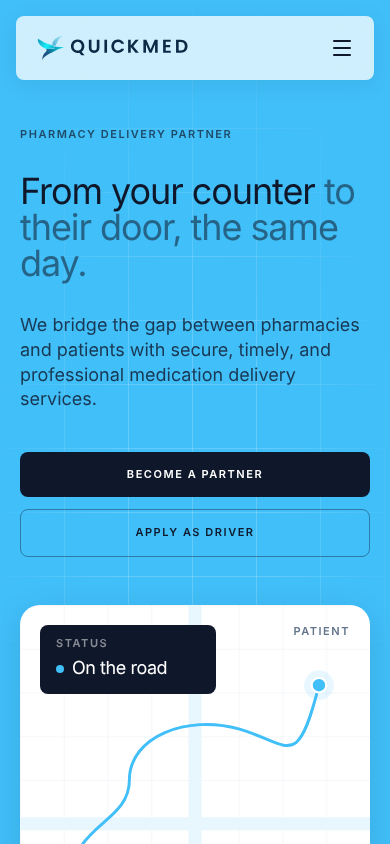
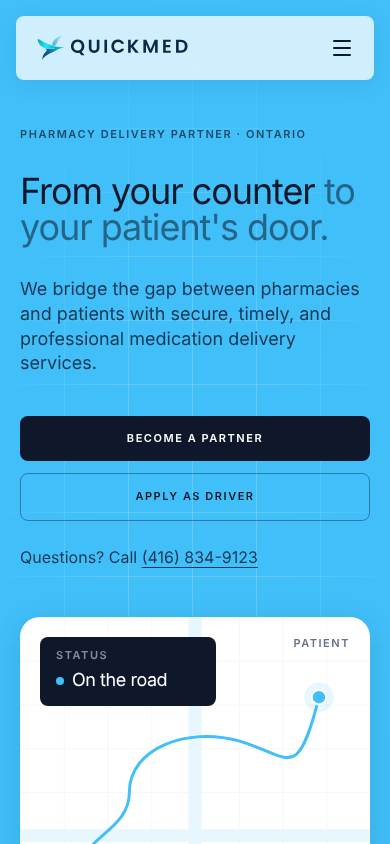
Keep homepage claims to what QuickMed does: PHIPA/PIPEDA, real request flow, support line
Replaces HIPAA with Ontario's PHIPA and Canada's PIPEDA, rewrites the four
steps and FAQ around QuickMed's actual flow (account set up by QuickMed,
request form in the member area, driver scheduled for pickup), drops
unverified claims (same-day, 2-4 hours, live tracking, proof-of-delivery
photos, 7 days a week), removes dead social and legal links, and adds the
customer support number.

Claude-Session: https://claude.ai/code/session_013yoprER6nrvyU9BHoq6jjD

diff --git a/src/components/services.tsx b/src/components/services.tsx
@@ -5,28 +5,28 @@ const services = [
     {
         eyebrow: "01 Collaboration",
         title: "Seamless Collaboration",
-        description: "We work directly with pharmacies to integrate smooth delivery workflows.",
+        description: "We work directly with pharmacies to fit delivery into your existing workflow.",
         image: "/images/service_collaboration_1770207670910.png",
         alt: "Pharmacist handing a bag to a courier",
     },
     {
-        eyebrow: "02 Security",
-        title: "Secure Delivery",
-        description: "HIPAA-compliant, temperature-controlled transport for sensitive medications.",
+        eyebrow: "02 Privacy",
+        title: "Patient Privacy",
+        description: "Patient information is handled in line with Ontario's PHIPA and Canada's PIPEDA, and requests go through our secure member area.",
         image: "/images/service_delivery_1770207689182.png",
-        alt: "Delivery status on a phone screen",
+        alt: "Delivery details on a phone screen",
     },
     {
-        eyebrow: "03 Visibility",
-        title: "Real-Time Tracking",
-        description: "Patients and pharmacies can track deliveries every step of the way.",
+        eyebrow: "03 Drivers",
+        title: "Trained Drivers",
+        description: "Professional drivers who are trained for medication delivery and know the local routes.",
         image: "/images/service_scooter_1770207705372.png",
         alt: "Courier on a scooter following a route",
     },
     {
-        eyebrow: "04 Verification",
-        title: "Proof of Delivery",
-        description: "Digital signatures and photo verification ensure successful handoffs.",
+        eyebrow: "04 Handling",
+        title: "Discreet and Secure",
+        description: "Secure, discreet packaging, with temperature control when a medication needs it.",
         image: "/images/service_team_1770207719832.png",
         alt: "QuickMed team under a row of stars",
     },
@@ -41,8 +41,8 @@ export function Services() {
                     <WordReveal
                         className="title-lg text-ink"
                         parts={[
-                            { text: "Every handoff," },
-                            { text: "accounted for.", className: "text-gray-light" },
+                            { text: "Handled with care," },
+                            { text: "pharmacy to patient.", className: "text-gray-light" },
                         ]}
                     />
                     <p className="mt-6 text-lg text-gray max-w-xl">

diff --git a/src/components/process.tsx b/src/components/process.tsx
@@ -7,26 +7,26 @@ import { WordReveal } from "./motion/reveal";
 
 const steps = [
     {
-        title: "Create Your Profile",
-        description: "Sign up in seconds and verify your pharmacy credentials.",
+        title: "Join QuickMed",
+        description: "Apply as a partner. We set up your pharmacy's account and email you secure login details.",
         status: "Pharmacy onboarded",
         icon: Building2,
     },
     {
-        title: "Upload Delivery Info",
-        description: "Upload your patients' delivery details via our secure portal.",
+        title: "Submit a Request",
+        description: "Fill out a short form in our secure member area with the recipient's information and medication details.",
         status: "Order received",
         icon: Upload,
     },
     {
         title: "Driver Pickup",
-        description: "A specially trained driver arrives to pick up your orders.",
+        description: "Our team schedules a trained driver to collect the delivery from your pharmacy at the designated time.",
         status: "On the road",
         icon: Car,
     },
     {
-        title: "Delivery Complete",
-        description: "Your patient receives their delivery the very same day.",
+        title: "Delivered",
+        description: "Our drivers know the local routes and bring the medication to your patient's door.",
         status: "Delivered",
         icon: House,
     },
@@ -90,7 +90,7 @@ export function Process() {
                             ]}
                         />
                         <p className="mt-6 text-lg text-gray max-w-md">
-                            Our streamlined process ensures that medications reach patients quickly, safely, and securely.
+                            A simple process that gets medication from your pharmacy to your patients quickly and securely.
                         </p>
 
                         {/* Live tracker card that follows the active step (desktop). */}

diff --git a/src/components/faq.tsx b/src/components/faq.tsx
@@ -5,20 +5,24 @@ import { clsx } from "clsx";
 
 const faqs = [
     {
-        question: "How fast is the delivery?",
-        answer: "Most deliveries are completed within 2-4 hours of pickup, depending on the distance and urgency level selected by the pharmacy.",
+        question: "How do I request a delivery?",
+        answer: "Partner pharmacies log in to our secure member area and fill out a short form with the recipient's information and the medication details.",
     },
     {
-        question: "Is the service HIPAA compliant?",
-        answer: "Yes, all our drivers are trained in HIPAA compliance and we use secure technology to ensure patient data privacy.",
+        question: "How is patient information protected?",
+        answer: "We handle personal health information in line with Ontario's Personal Health Information Protection Act (PHIPA) and Canada's PIPEDA. Requests are submitted through a secure, login-only member area, and our drivers are trained in confidentiality.",
+    },
+    {
+        question: "What happens after I submit a request?",
+        answer: "Our team processes the request and schedules a driver from our network to collect the delivery from your pharmacy at the designated time.",
     },
     {
         question: "How can I become a partner pharmacy?",
-        answer: "You can click on the 'Become A Partner' button in the menu, fill out the form, and our team will get back to you within 24 hours.",
+        answer: "Fill out the Become a Partner form. Our team sets up your pharmacy's account and emails you your login details.",
     },
     {
-        question: "Do you deliver on weekends?",
-        answer: "Yes, QuickMed operates 7 days a week to ensure patients receive their medications when they need them.",
+        question: "Who do I contact with questions?",
+        answer: "Call our customer support team at (416) 834-9123.",
     },
 ];
 

diff --git a/src/components/footer.tsx b/src/components/footer.tsx
@@ -1,5 +1,4 @@
 import Link from "next/link";
-import { Facebook, Instagram, Linkedin, Twitter } from "lucide-react";
 
 const columns = [
     {
@@ -10,20 +9,6 @@ const columns = [
             { href: "/drivers", label: "Become A Driver" },
         ],
     },
-    {
-        heading: "Legal",
-        links: [
-            { href: "/privacy", label: "Privacy Policy" },
-            { href: "/terms", label: "Terms of Service" },
-        ],
-    },
-];
-
-const socials = [
-    { label: "Facebook", icon: Facebook },
-    { label: "Twitter", icon: Twitter },
-    { label: "Instagram", icon: Instagram },
-    { label: "LinkedIn", icon: Linkedin },
 ];
 
 export function Footer() {
@@ -53,15 +38,9 @@ export function Footer() {
                             </ul>
                         </div>
                     ))}
-                    <div className="md:col-span-2">
-                        <h4 className="label-mono text-white/60 mb-5">Connect</h4>
-                        <div className="flex gap-5">
-                            {socials.map(({ label, icon: Icon }) => (
-                                <Link key={label} href="#" aria-label={label} className="text-white/80 hover:text-accent transition-colors">
-                                    <Icon className="h-5 w-5" />
-                                </Link>
-                            ))}
-                        </div>
+                    <div className="md:col-span-3">
+                        <h4 className="label-mono text-white/60 mb-5">Customer support</h4>
+                        <a href="tel:+14168349123" className="text-lg hover:text-accent transition-colors">(416) 834-9123</a>
                     </div>
                 </div>
 

diff --git a/src/components/hero.tsx b/src/components/hero.tsx
@@ -89,13 +89,13 @@ export function Hero() {
             <div className="relative mx-auto max-w-6xl px-5 md:px-8 pt-32 md:pt-44 pb-16 md:pb-24">
                 <div className="grid grid-cols-1 lg:grid-cols-12 gap-12 lg:gap-8 items-center">
                     <div className="lg:col-span-7">
-                        <p className="label-mono text-ink/70 mb-8">Pharmacy delivery partner</p>
+                        <p className="label-mono text-ink/70 mb-8">Pharmacy delivery partner · Ontario</p>
                         <WordReveal
                             as="h1"
                             className="title-lg mb-8"
                             parts={[
                                 { text: "From your counter" },
-                                { text: "to their door, the same day.", className: "text-ink/55" },
+                                { text: "to your patient's door.", className: "text-ink/55" },
                             ]}
                         />
                         <p className="text-lg md:text-xl leading-snug text-ink/80 max-w-xl mb-10">
@@ -109,6 +109,9 @@ export function Hero() {
                                 Apply as driver
                             </CtaLink>
                         </div>
+                        <p className="mt-6 text-ink/80">
+                            Questions? Call <a href="tel:+14168349123" className="underline underline-offset-4 hover:text-ink">(416) 834-9123</a>
+                        </p>
                     </div>
 
                     <div className="lg:col-span-5 flex justify-center lg:justify-end">

diff --git a/src/components/home/checkpoint-cta.tsx b/src/components/home/checkpoint-cta.tsx
@@ -11,12 +11,15 @@ export function CheckpointCta() {
                     <div>
                         <p className="label-mono text-ink/70 mb-4">Next stop · Your pharmacy</p>
                         <p className="title-md max-w-xl">
-                            Add same-day delivery <span className="text-ink/55">without hiring a driver.</span>
+                            Add delivery for your patients <span className="text-ink/55">without hiring a driver.</span>
                         </p>
                     </div>
-                    <CtaLink href="/partners" variant="ink" className="shrink-0">
-                        Become a partner
-                    </CtaLink>
+                    <div className="shrink-0 flex flex-col items-start md:items-end gap-3">
+                        <CtaLink href="/partners" variant="ink">
+                            Become a partner
+                        </CtaLink>
+                        <a href="tel:+14168349123" className="label-mono text-ink/70 hover:text-ink">or call (416) 834-9123</a>
+                    </div>
                 </Reveal>
             </div>
         </section>
